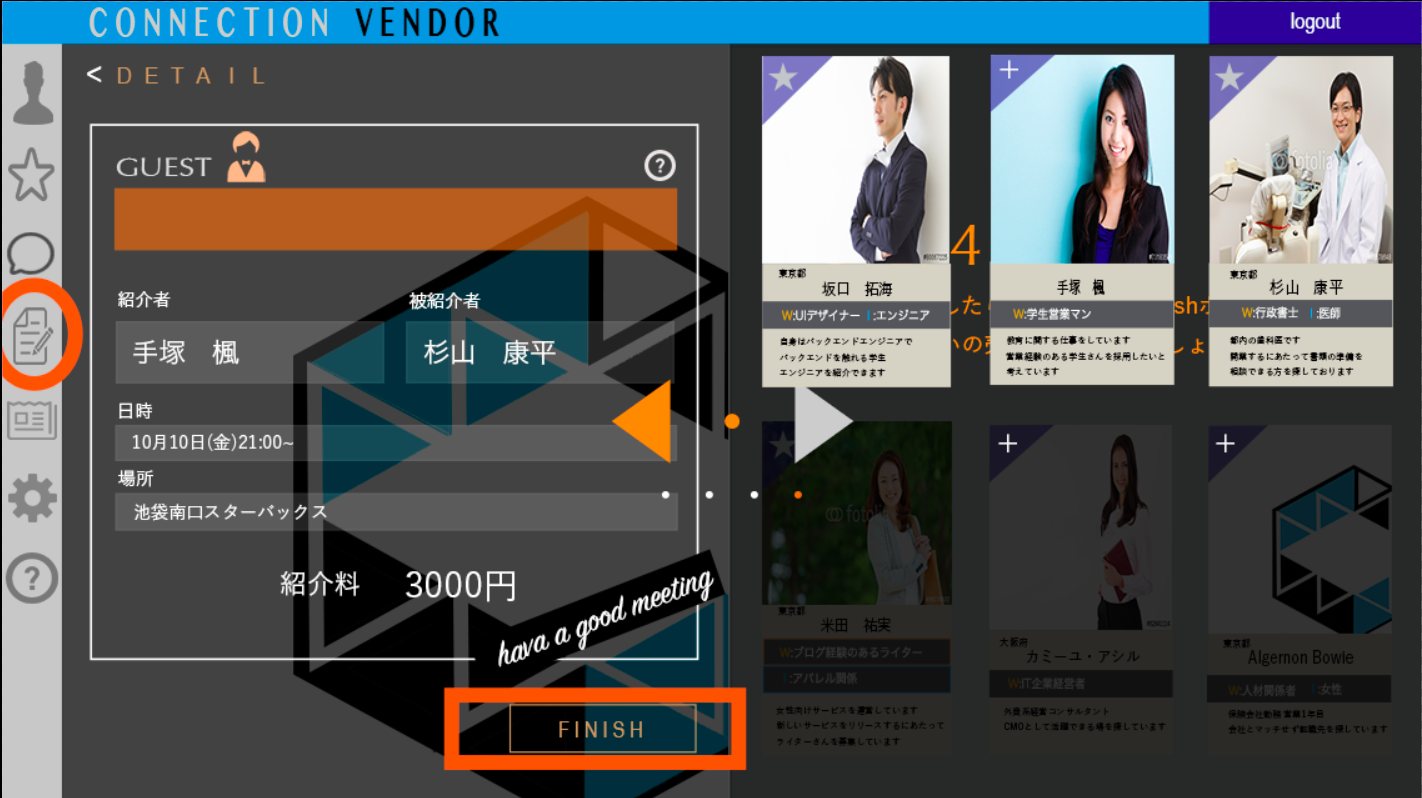
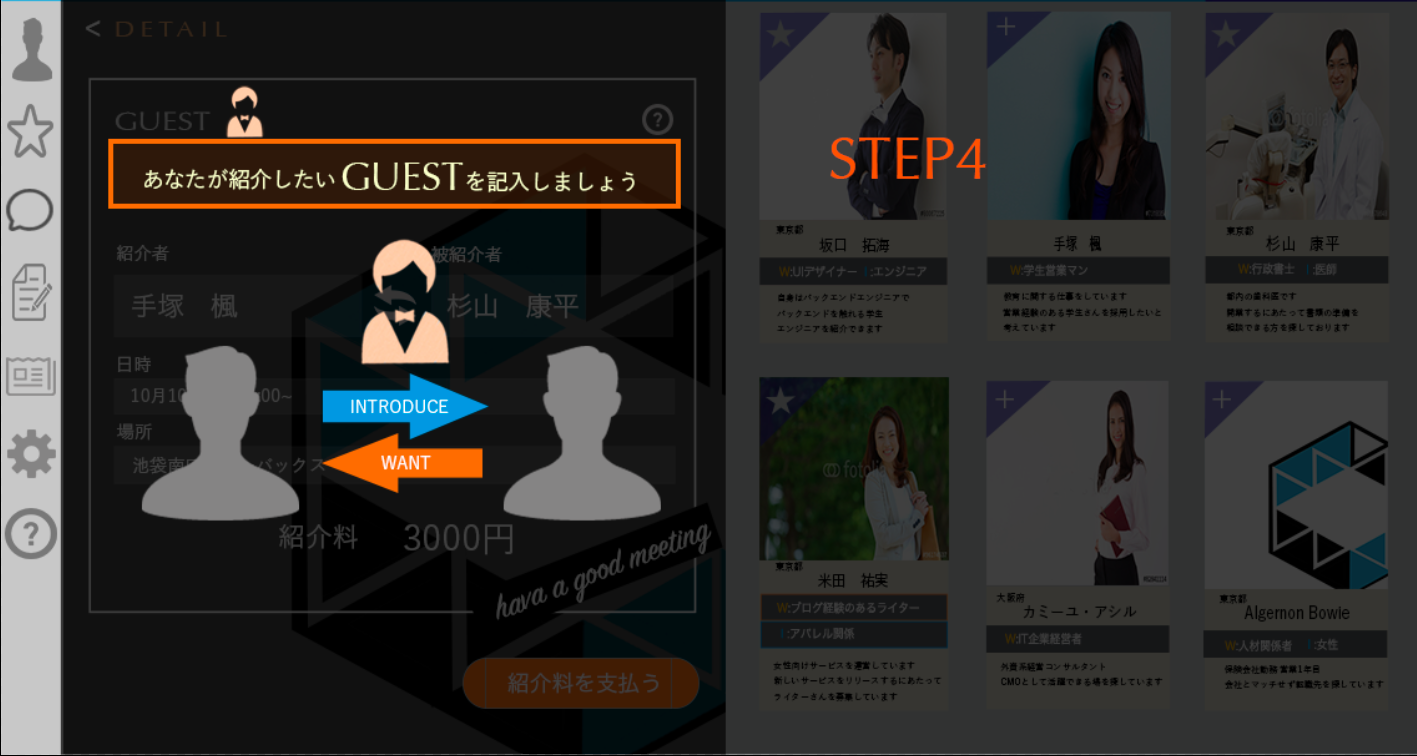
tutorial修正

diff --git a/resources/react/components/Tutorial.js b/resources/react/components/Tutorial.js
@@ -3,30 +3,55 @@ export default class Tutorial extends React.Component {
     constructor() {
         super();
 
-        this.count = 0;
-        this.image = [
+        this.count = 1;
+        this.imgs = [
             '/assets/imgs/step1.png',
             '/assets/imgs/step2.png',
             '/assets/imgs/step3.png',
             '/assets/imgs/step4.png',
+            '/assets/imgs/step5.png',
         ];
+        this.arrows = [
+            '/assets/imgs/left_orange.png',
+            '/assets/imgs/left_white.png',
+            '/assets/imgs/right_orange.png',
+            '/assets/imgs/right_white.png',
+        ];
+        this.point = '/assets/imgs/point.png';
     }
 
-    _backClick() {
+    backClick() {
         if(this.count !== 0) this.count--;
-        document.getElementById('step').src = this.image[this.count];
+        this._setImages(this.count);
     }
 
-    _frontClick() {
-        if(this.count !== 3) this.count++;
-        document.getElementById('step').src = this.image[this.count];
+    frontClick() {
+        if(this.count !== 4) this.count++;
+        this._setImages(this.count);
     }
+
+    _setImages(count) {
+        document.getElementById('step').src = this.imgs[count];
+        switch(count){
+            case 0:
+                document.getElementById('leftArrow').src = this.arrows[1];
+                break;
+            case 4:
+                document.getElementById('rightArrow').src = this.arrows[3];
+                break;
+            default:
+                document.getElementById('leftArrow').src  = this.arrows[0];
+                document.getElementById('rightArrow').src = this.arrows[2];
+        }
+    }
+
     render() {
         return (
-            <div className="tutorialPage">
-                <button onClick={this._frontClick.bind(this)}>進む</button><br/>
-                <button onClick={this._backClick.bind(this)}>戻る</button><br/>
-                <img id='step' src={this.image[0]} />
+            <div className='tutorialPage'>
+                <img id='step' src={this.imgs[0]} />
+                <a className='leftArrow' onClick={this.backClick.bind(this)}><img id='leftArrow' src={this.arrows[1]} /></a>
+                <img className='point' src={this.point} />
+                <a className='rightArrow' onClick={this.frontClick.bind(this)}><img id='rightArrow' src={this.arrows[2]} /></a>
             </div>
         );
     }

diff --git a/resources/sass/app.scss b/resources/sass/app.scss
@@ -1097,5 +1097,30 @@ header {
 }
 
 .tutorialPage{
+
+    width: 100%;
+    height: 100%;
+    position: relative;
     
+    #step {
+        width: 100%;
+    }
+
+    .leftArrow {
+        position: absolute;
+        top: 350px;
+        left: 640px;
+    }
+
+    .point {
+        position: absolute;
+        top: 380px;
+        left: 730px; 
+    }
+
+    .rightArrow {
+        position: absolute;
+        top: 350px;
+        left: 780px;
+    }
 }
